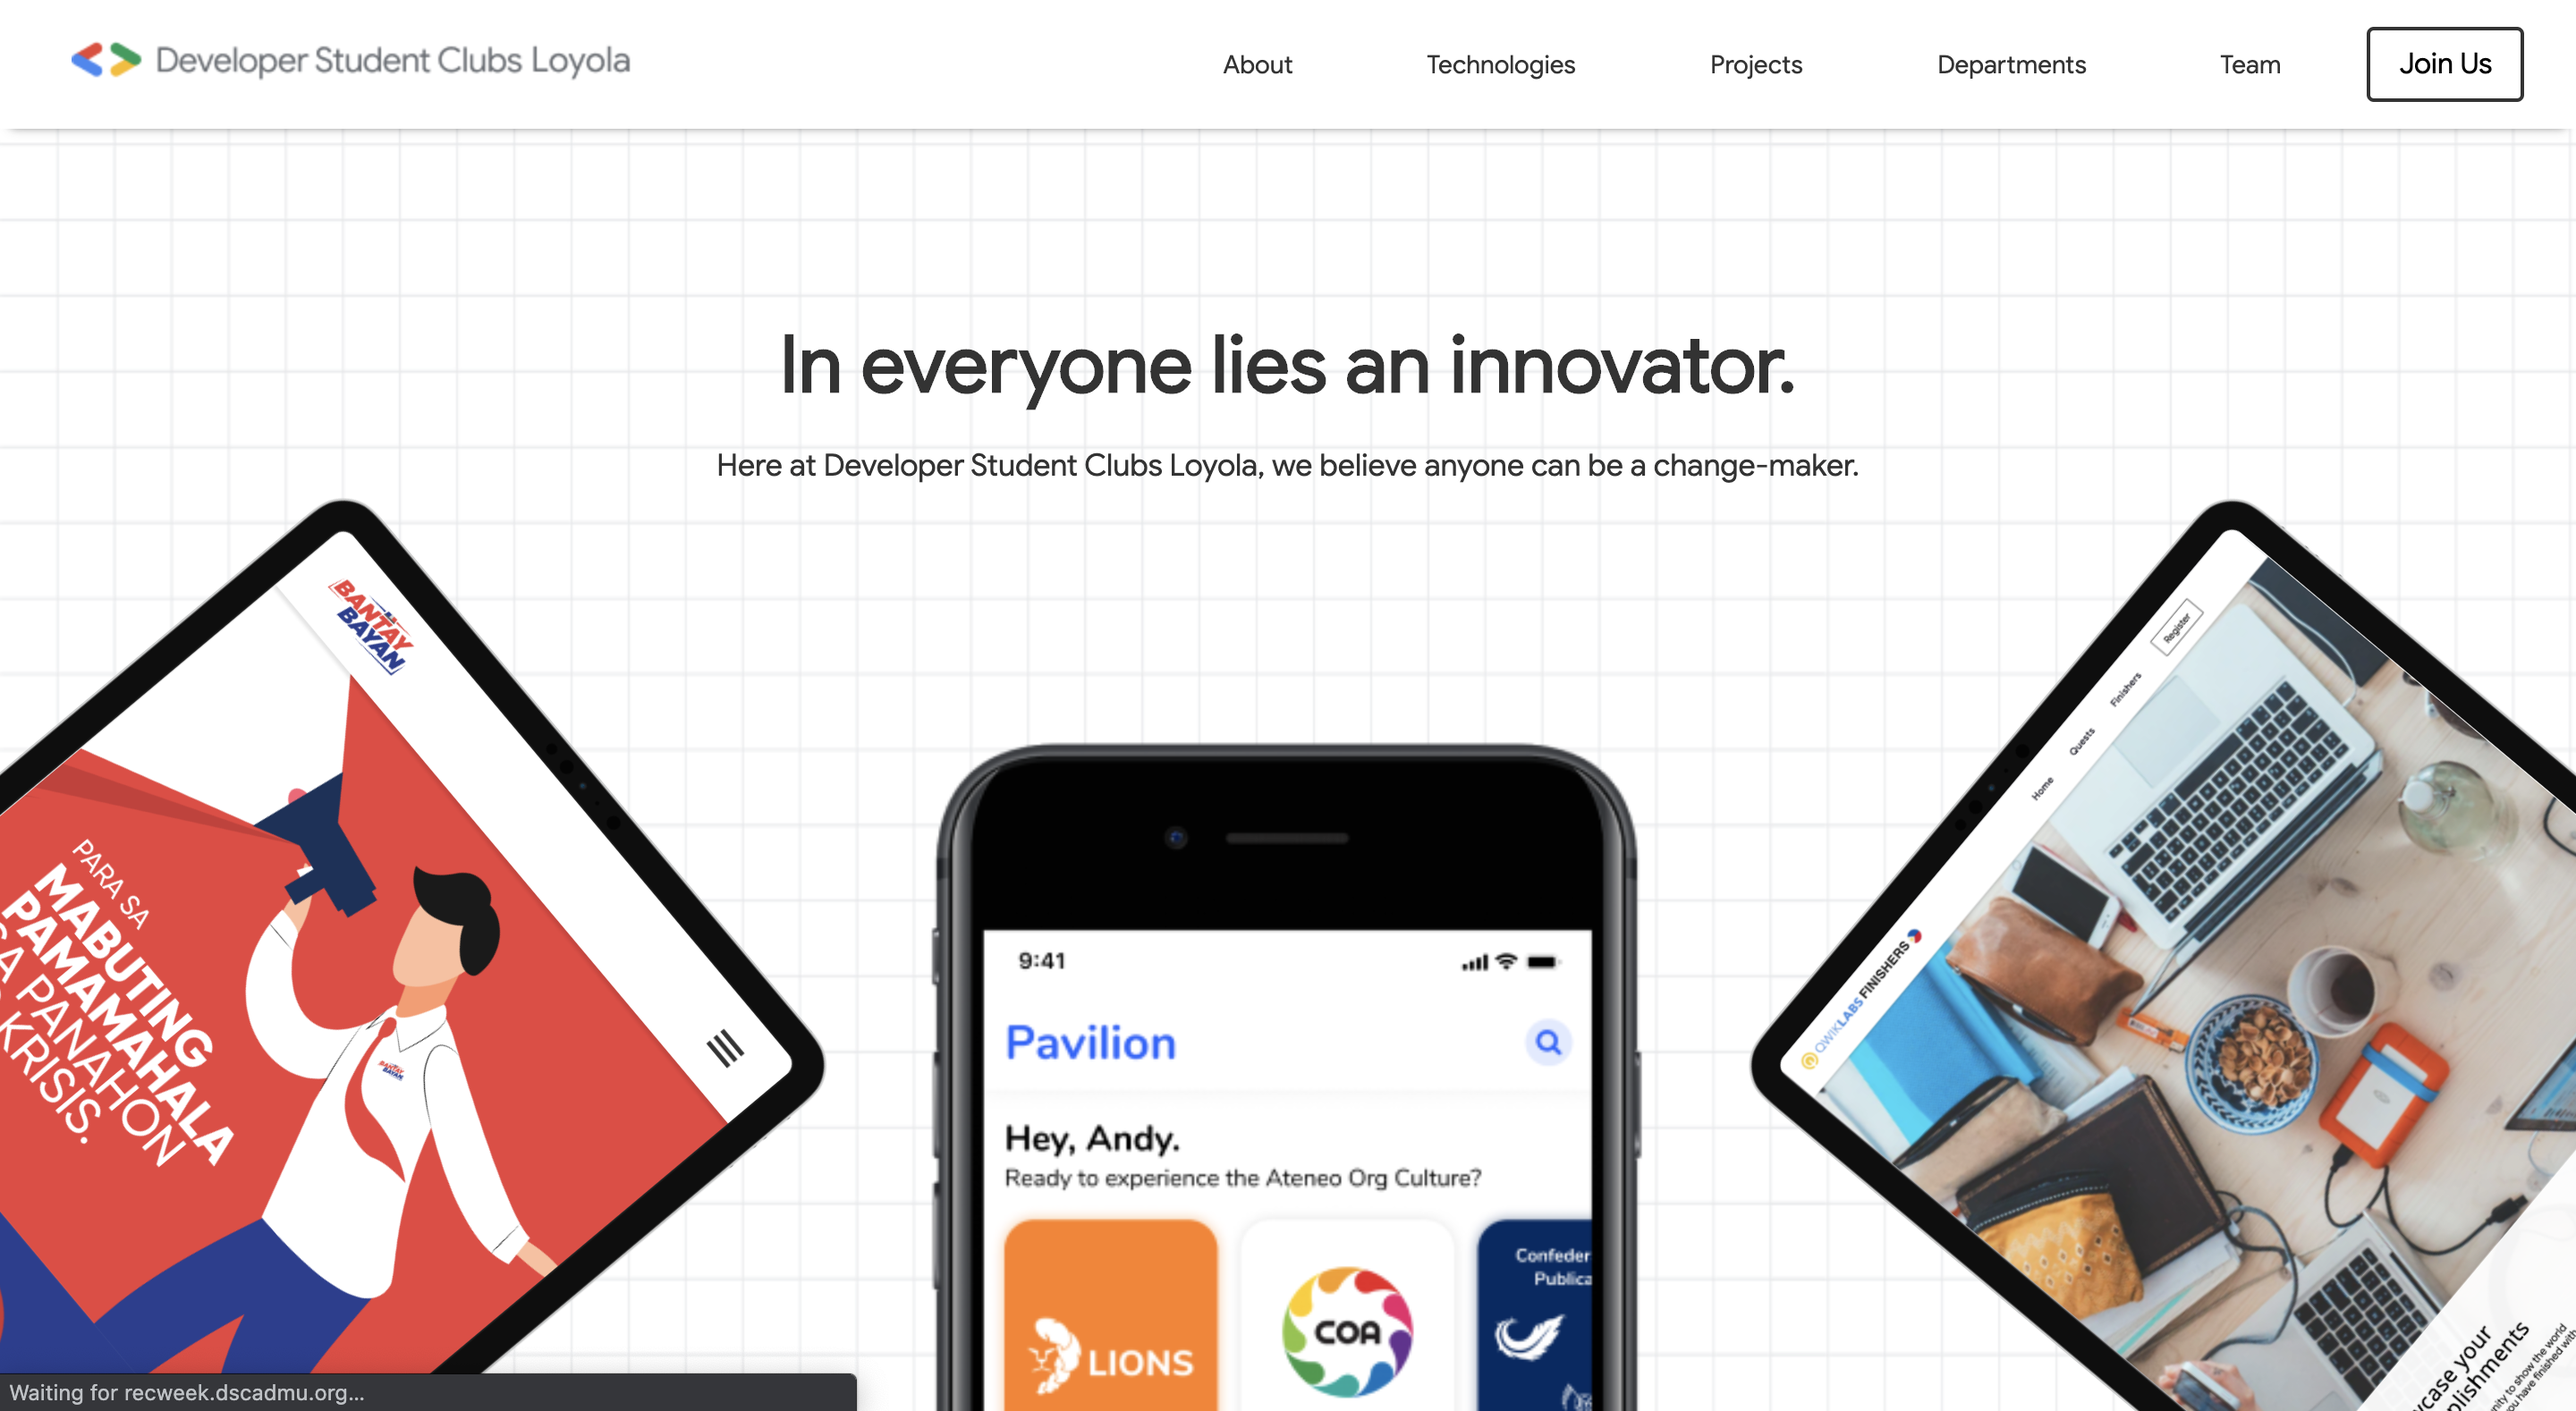
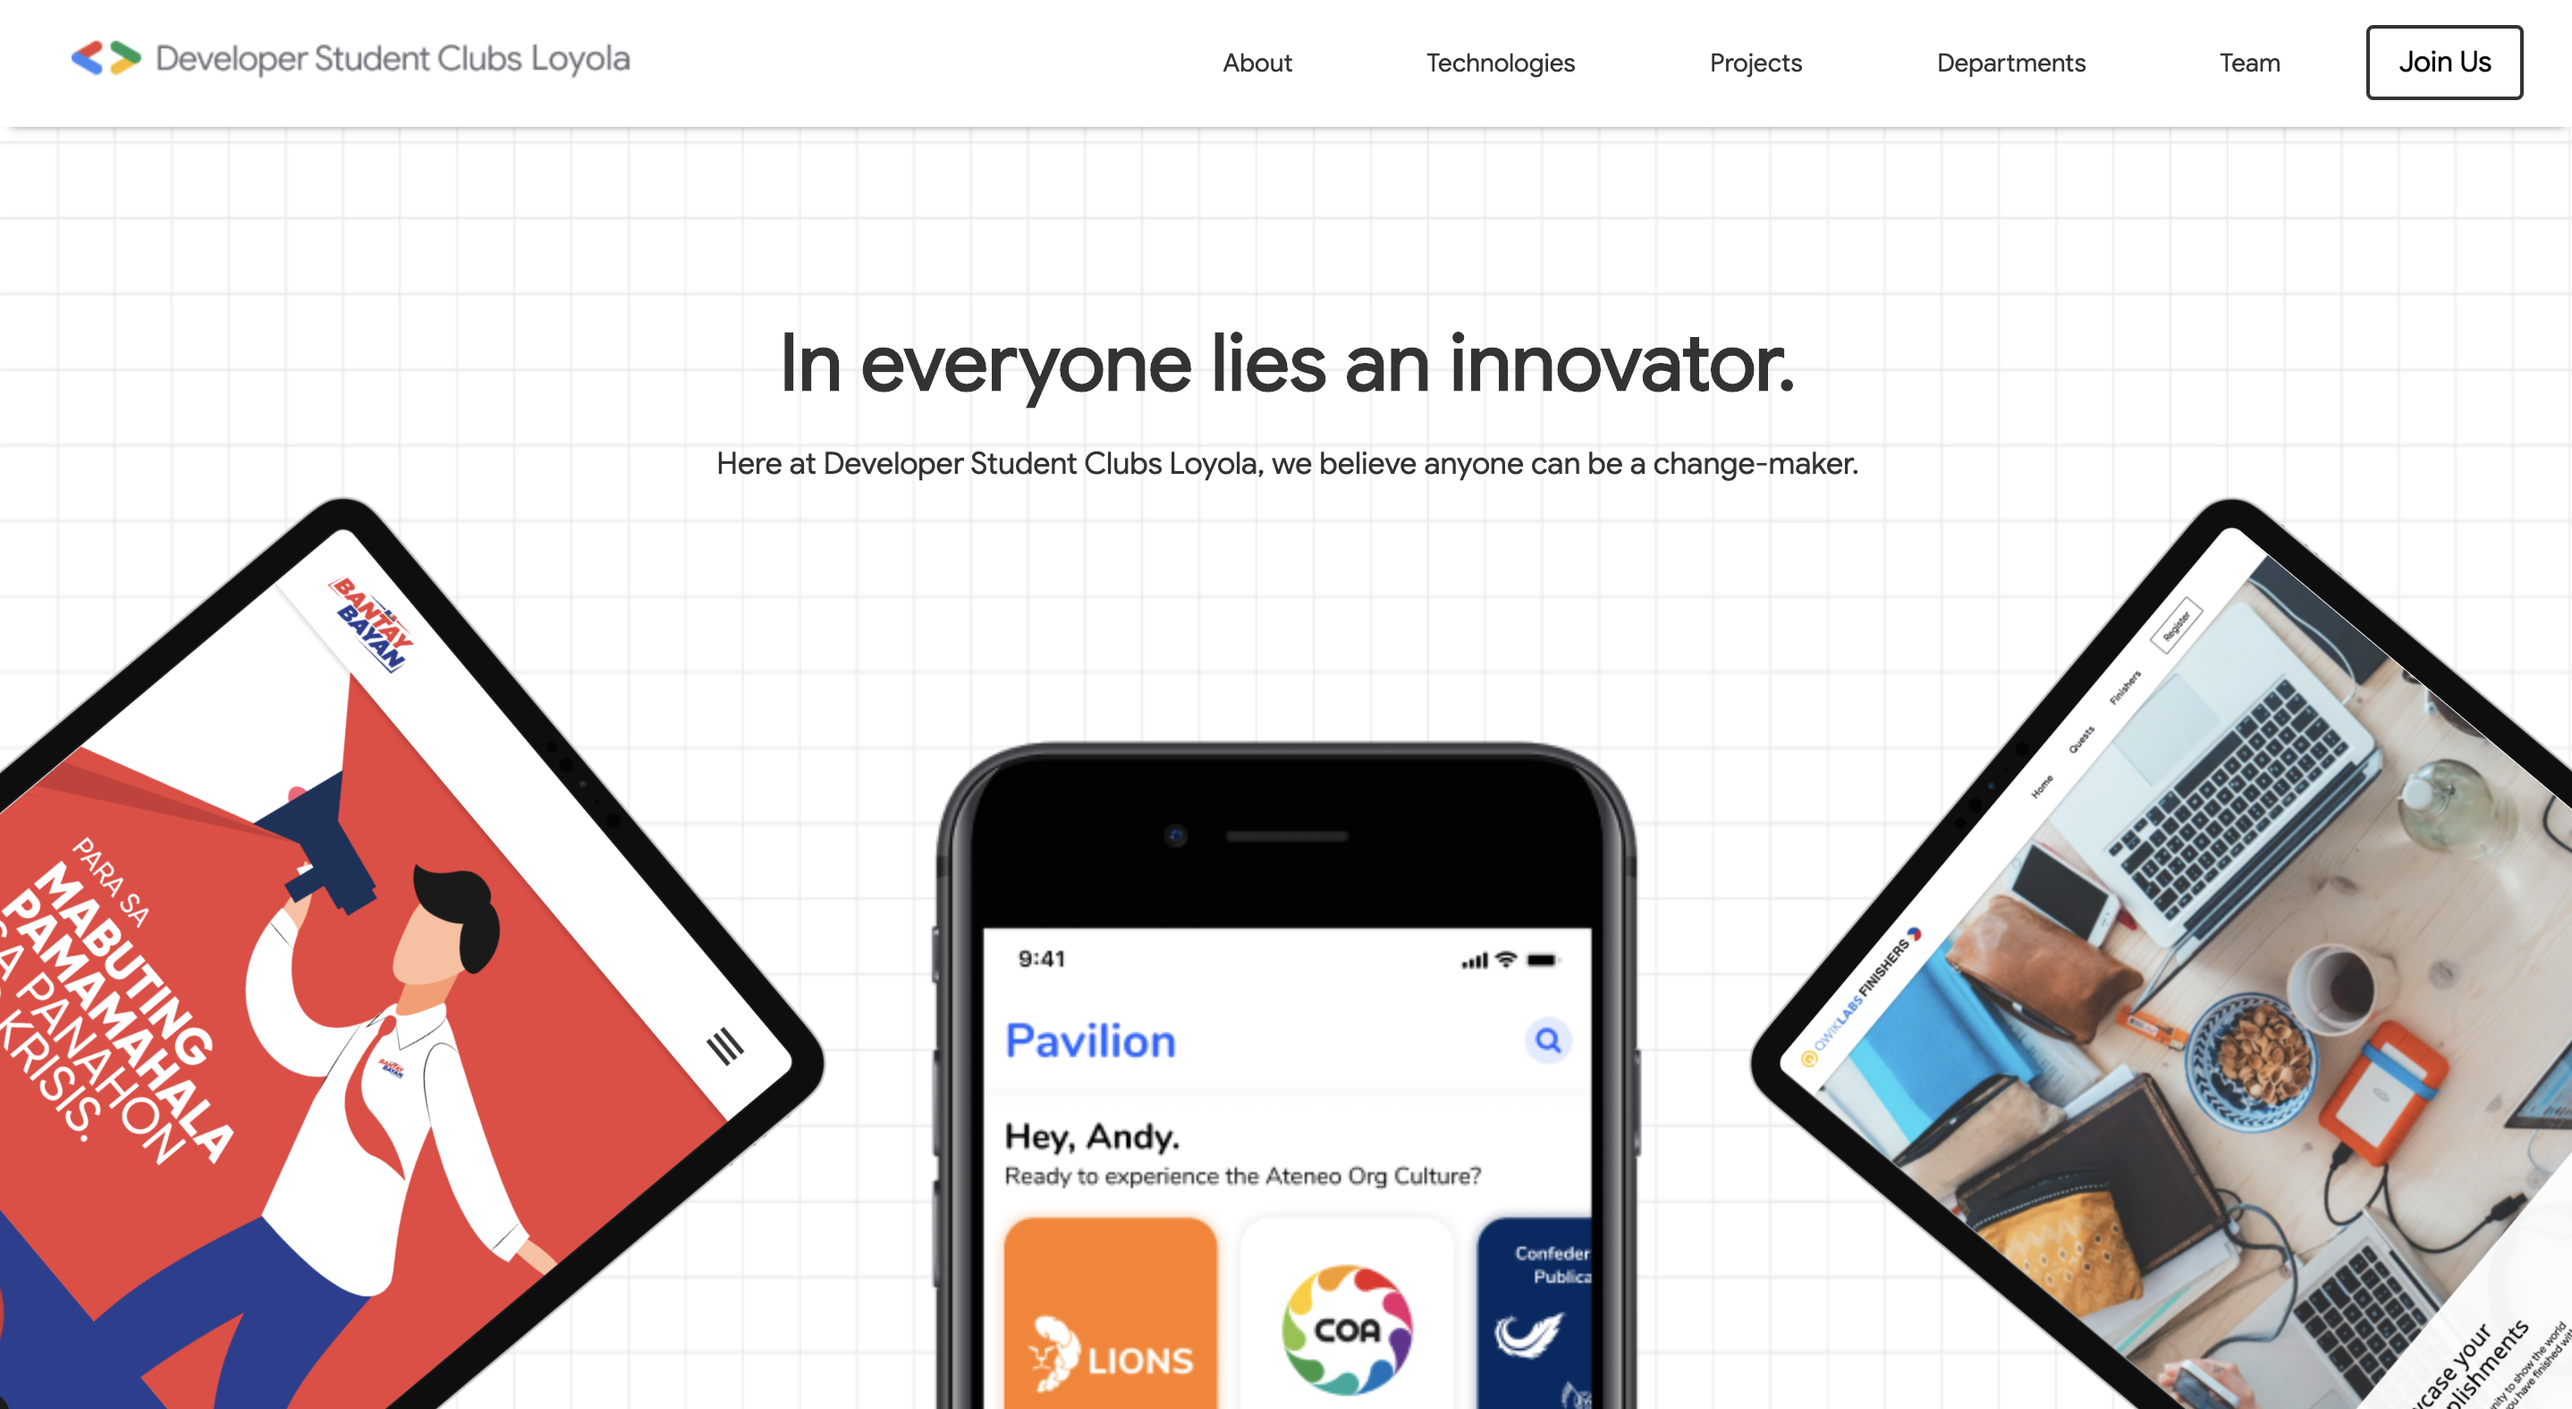
[Fix] Fix responsive issues

diff --git a/css/main.css b/css/main.css
@@ -71,6 +71,7 @@ p {
   width: 40%;
   border-radius: 100%;
   animation: opacity-change 1000ms both;
+  margin-bottom: 7px;
 }
 
 .icon-list ul {
@@ -140,6 +141,7 @@ p {
   padding-top: 2rem;
   margin: auto;
   grid-template-columns: 1fr 1fr;
+  grid-auto-rows: minmax(300px, auto);
   grid-gap: 1.5rem;
 }
 
@@ -192,7 +194,7 @@ p {
   color: white;
 }
 
-.projects div img {
+.projects img {
   width: 100%;
   height: 100%;
 }
@@ -205,7 +207,7 @@ p {
 }
 
 .copyright {
-  font-size: 1rem;
+  font-size: 0.9rem;
 }
 .email {
   margin: 1rem;
@@ -239,13 +241,11 @@ p {
 
 /* Media Queries */
 
-
-
 @media (max-width: 1140px) {
   .projects {
     grid-template-columns: 1fr;
-    grid-auto-rows: auto;
     grid-gap: 1.5rem;
+    grid-auto-rows: auto;
   }
 
   .about-items {
@@ -347,7 +347,13 @@ p {
   }
 }
 
-@media (orientation: Landscape) and (max-height: 600px) {
+@media (orientation: landscape) and (max-height: 700px) {
+  .header-text .image-person {
+    width: 20%;
+  }
+}
+
+@media (orientation: landscape) and (max-height: 600px) {
   .header-text h1 {
     font-size: 2rem;
   }
